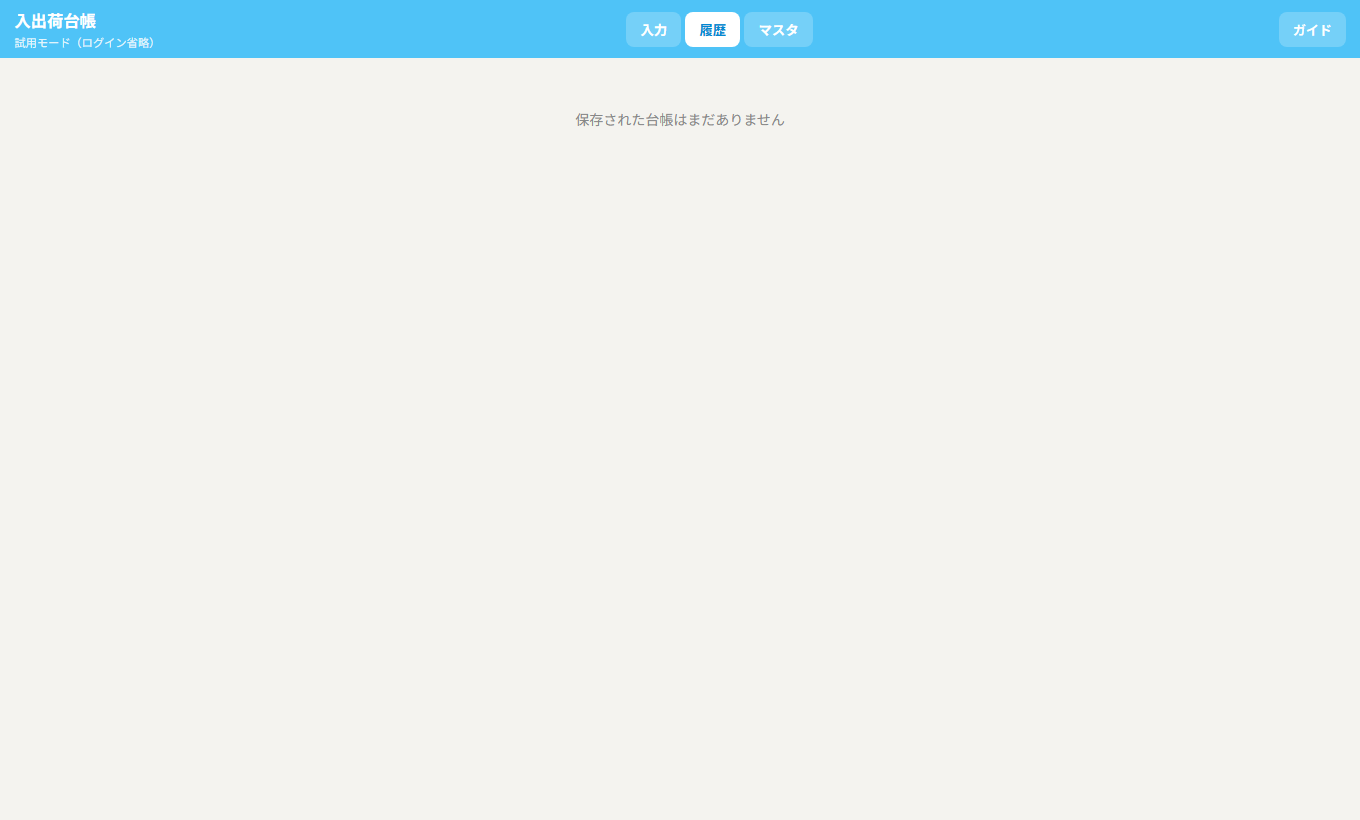
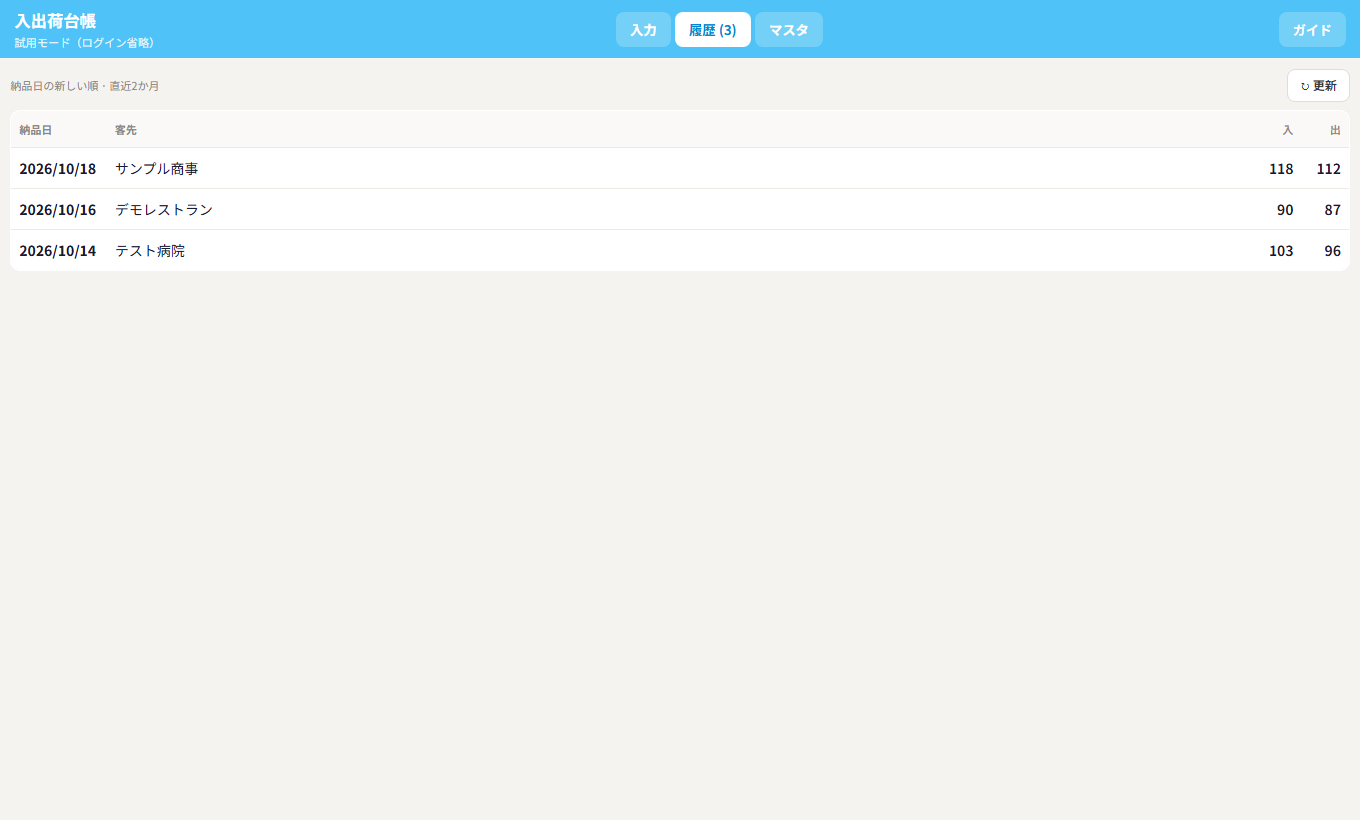
試用時に履歴が空なら見本台帳を入れ、ガイドのスクショも更新。

diff --git a/index.html b/index.html
@@ -561,6 +561,70 @@ const DEMO_PRICES = [
   { customer: "テスト病院", code: "N018", name: "足袋", yomi: "たび" }
 ];
 
+/** 試用・仮運用で履歴が空のときだけ入れる見本台帳 */
+function demoDateOffset(daysAgo) {
+  const d = new Date();
+  d.setHours(12, 0, 0, 0);
+  d.setDate(d.getDate() - daysAgo);
+  return `${d.getFullYear()}-${String(d.getMonth() + 1).padStart(2, "0")}-${String(d.getDate()).padStart(2, "0")}`;
+}
+
+function demoLedgerItems(customer, picks) {
+  const byCode = new Map(
+    DEMO_PRICES.filter(p => p.customer === customer).map(p => [p.code, p])
+  );
+  return picks.map(([code, inQty, outQty]) => {
+    const p = byCode.get(code) || { code, name: code };
+    return { code: p.code, name: p.name, inQty, outQty };
+  });
+}
+
+function buildDemoLedgers() {
+  const base = Date.now();
+  return [
+    {
+      id: base - 3,
+      customer: "サンプル商事",
+      deliveryDate: demoDateOffset(1),
+      items: demoLedgerItems("サンプル商事", [
+        ["N001", 20, 18], ["N002", 20, 18], ["N004", 8, 8], ["N005", 30, 28], ["N025", 40, 40]
+      ]),
+      createdAt: new Date(base - 3 * 3600000).toISOString(),
+      createdBy: "",
+      createdByEmail: "見本データ"
+    },
+    {
+      id: base - 2,
+      customer: "デモレストラン",
+      deliveryDate: demoDateOffset(3),
+      items: demoLedgerItems("デモレストラン", [
+        ["N001", 6, 6], ["N003", 10, 9], ["N004", 50, 48], ["N008", 20, 20], ["N012", 4, 4]
+      ]),
+      createdAt: new Date(base - 2 * 86400000).toISOString(),
+      createdBy: "",
+      createdByEmail: "見本データ"
+    },
+    {
+      id: base - 1,
+      customer: "テスト病院",
+      deliveryDate: demoDateOffset(5),
+      items: demoLedgerItems("テスト病院", [
+        ["N001", 15, 12], ["N002", 15, 12], ["N003", 8, 8], ["N008", 25, 24], ["N011", 40, 40]
+      ]),
+      createdAt: new Date(base - 5 * 86400000).toISOString(),
+      createdBy: "",
+      createdByEmail: "見本データ"
+    }
+  ];
+}
+
+function ensureDemoLedgers() {
+  if (!state.demoMode) return;
+  if (state.ledgers.length) return;
+  state.ledgers = applyLedgerRetention(buildDemoLedgers());
+  cacheLedgers();
+}
+
 const ZOOM_KEY = "lg_itemZoom";
 const ZOOM_MIN = 0.7;
 const ZOOM_MAX = 1.5;
@@ -1338,6 +1402,7 @@ async function loadMasters() {
       const cached = localStorage.getItem("lg_ledgers_demo");
       state.ledgers = applyLedgerRetention(cached ? JSON.parse(cached) : []);
     } catch { state.ledgers = []; }
+    ensureDemoLedgers();
     state.loading = false;
     render();
     return;

diff --git a/guide.html b/guide.html
@@ -153,6 +153,7 @@
         <li>保存した台帳が、納品日の新しい順に並びます。</li>
         <li>行をタップすると明細を確認できます。</li>
         <li>ここから「伝票入力メモ」も開けます。</li>
+        <li>試用・仮運用では、履歴が空のとき見本データが入ります（保存すると上書きされます）。</li>
       </ul>
     </section>
 

diff --git a/sw.js b/sw.js
@@ -1,4 +1,4 @@
-const CACHE_NAME = "pourvous-ledger-v23";
+const CACHE_NAME = "pourvous-ledger-v24";
 const SHELL = [
   "./index.html",
   "./guide.html",
